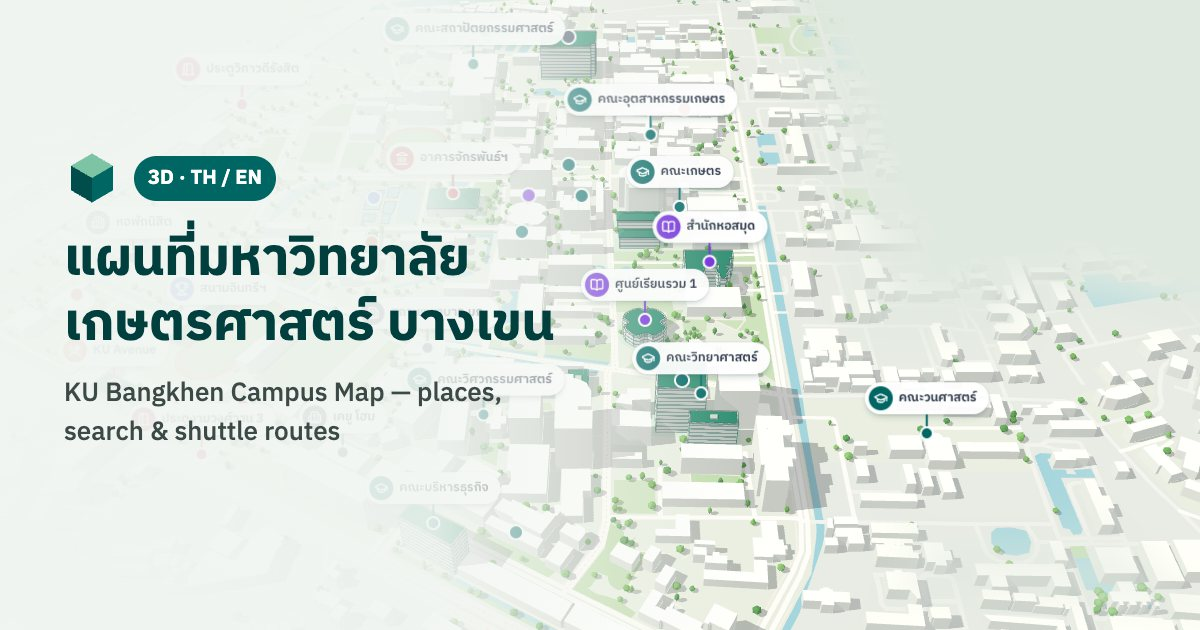
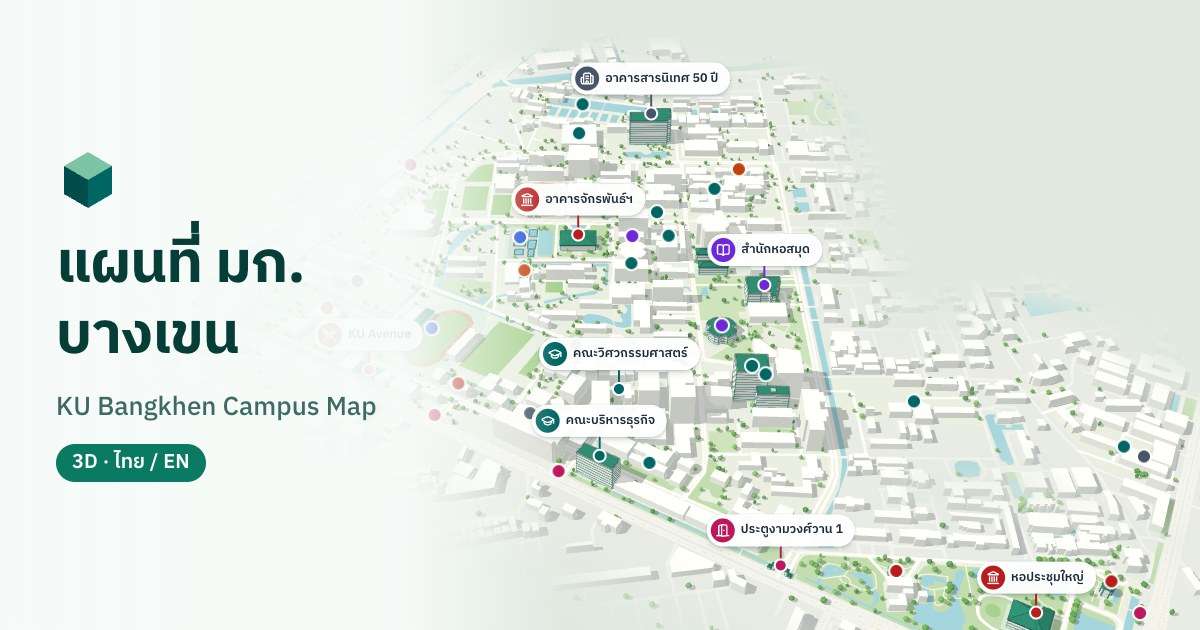
Share image: real map render with title panel; og:image:type, twitter alt, cache-busting ?v=2

diff --git a/index.html b/index.html
@@ -24,13 +24,15 @@
     <title>แผนที่มหาวิทยาลัยเกษตรศาสตร์ บางเขน</title>
 
     <!-- Link previews (LINE, Facebook, X). Crawlers need absolute URLs: set
-         VITE_SITE_URL (e.g. https://ku-map.vercel.app) when building. -->
+         VITE_SITE_URL (the deployed origin) when building. The image is made by
+         scripts/og-image.mjs; bump ?v= below when it changes, so LINE/Facebook refetch it. -->
     <meta property="og:type" content="website" />
     <meta property="og:site_name" content="KU Campus Map" />
     <meta property="og:title" content="แผนที่มหาวิทยาลัยเกษตรศาสตร์ บางเขน · KU Bangkhen Campus Map" />
     <meta property="og:description" content="แผนที่ 3 มิติ มก. บางเขน: ค้นหาคณะ อาคาร ร้านอาหาร และเส้นทางรถตะลัย — 3D map of Kasetsart University Bangkhen with search and shuttle routes." />
     <meta property="og:url" content="%VITE_SITE_URL%/" />
-    <meta property="og:image" content="%VITE_SITE_URL%/og-image.jpg" />
+    <meta property="og:image" content="%VITE_SITE_URL%/og-image.jpg?v=2" />
+    <meta property="og:image:type" content="image/jpeg" />
     <meta property="og:image:width" content="1200" />
     <meta property="og:image:height" content="630" />
     <meta property="og:image:alt" content="3D map of Kasetsart University Bangkhen campus with labelled faculties and landmarks" />
@@ -39,7 +41,8 @@
     <meta name="twitter:card" content="summary_large_image" />
     <meta name="twitter:title" content="แผนที่มหาวิทยาลัยเกษตรศาสตร์ บางเขน · KU Bangkhen Campus Map" />
     <meta name="twitter:description" content="3D campus map with bilingual search, landmarks and KU shuttle routes." />
-    <meta name="twitter:image" content="%VITE_SITE_URL%/og-image.jpg" />
+    <meta name="twitter:image" content="%VITE_SITE_URL%/og-image.jpg?v=2" />
+    <meta name="twitter:image:alt" content="3D map of Kasetsart University Bangkhen campus with labelled faculties and landmarks" />
   </head>
   <body>
     <div id="root"></div>

diff --git a/README.md b/README.md
@@ -28,6 +28,7 @@ npm run dev            # http://localhost:5173
 npm run dev -- --host  # also reachable from your phone on the same Wi-Fi
 npm run build          # production build in dist/
 npm run preview        # serve dist/ locally
+node scripts/og-image.mjs  # re-render public/og-image.jpg (dev server running); bump ?v= in index.html
 npm run typecheck
 ```
 
